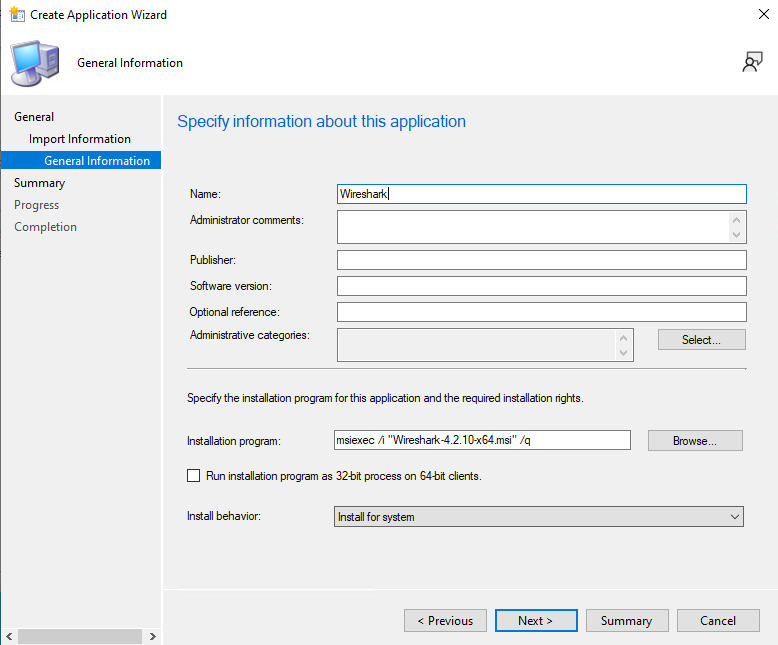
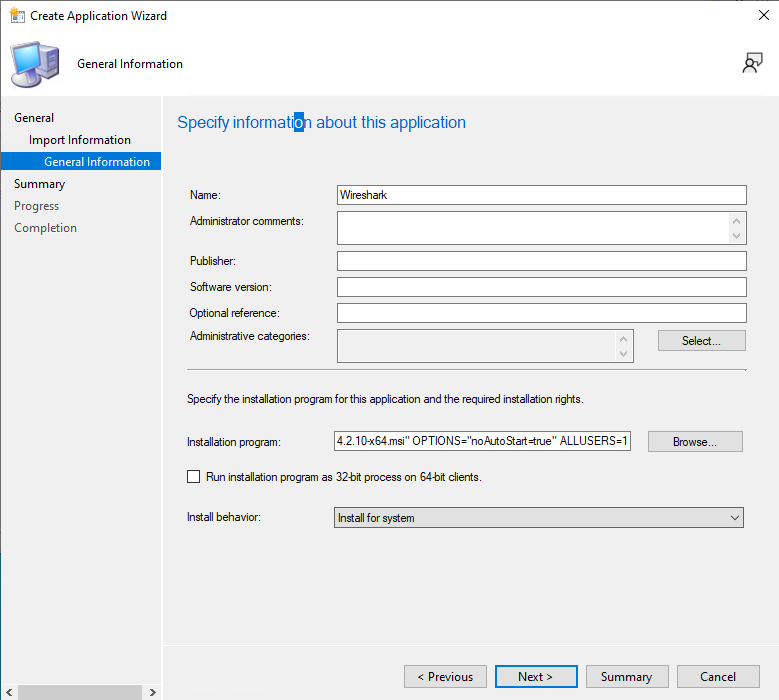
Update

diff --git a/README.md b/README.md
@@ -36,19 +36,20 @@ There will be a windows that pops up and will have a dahsbaord like interface on
 
 11. Next again on the general information.
 
-12. You can configure the properties of the install I'm going to leave mine default. Then click next, then close.
+12. Set the installation Properties for the install in general information. The next option you can just click next on. Then close.
 ![Installation Properties](_images/Installation-Properties.png)
 
 13. Right click on the new application and select Distribute Content.
 ![Distribute Content](_images/Distribute-Content.png)
 
-14. Click next on the first option in general, in content click next.
-
-15. In the Content Destination click on the add button. And select Distibution Point
+14. In the Content Destination click on the add button. And select Distibution Point
 ![Add Button](_images/Add-Button.png)
 
-16. Select the server that you are going to deploy from. Then Click Ok then next
+15. Select the server that you are going to deploy from. Then Click Ok then next
 ![Distribution Point](_images/Distribution-Menu.png)
+
+16. On the Deployment setting page set the purpose to install.
+![Purpose](_images/Purpose.png)
 
 17. In the summary click next. The Close on the completion.
 
@@ -78,4 +79,9 @@ There will be a windows that pops up and will have a dahsbaord like interface on
 26. On the bottom right of your screen you will get a notification saying that you IT department requires changes to the device.
 ![Notification](_images/Notification.png)
 
-27. 
+27. The application will automatically download and install in the background once it is done it will have a notification that will pop up in the lower right hand corner saying that it finished downloading and installing.
+
+28. Now you can launch the app and use it.
+![Done](_images/Can-Search.png)
+
+![Launched App](_images/Wireshark.png)
